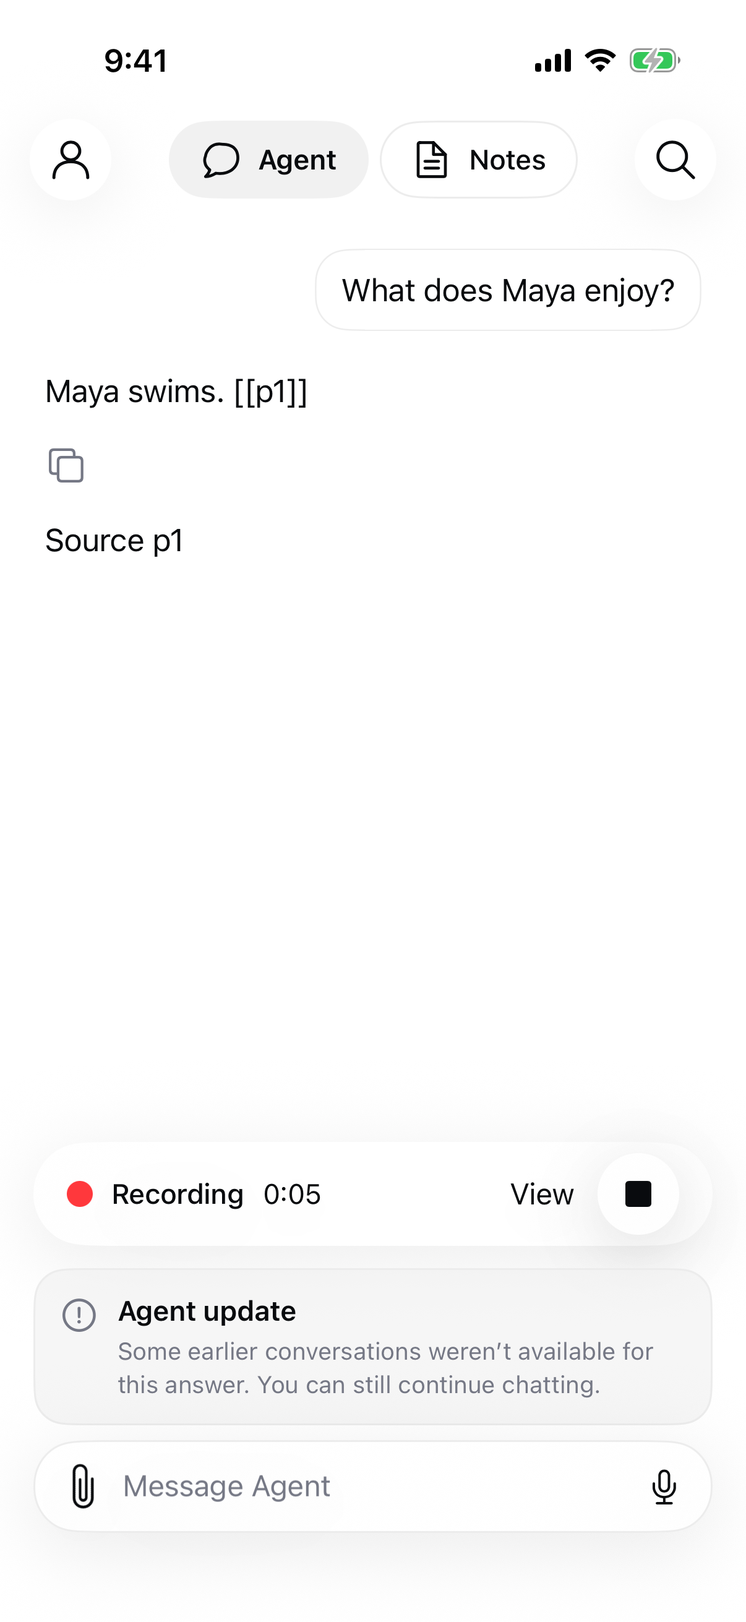
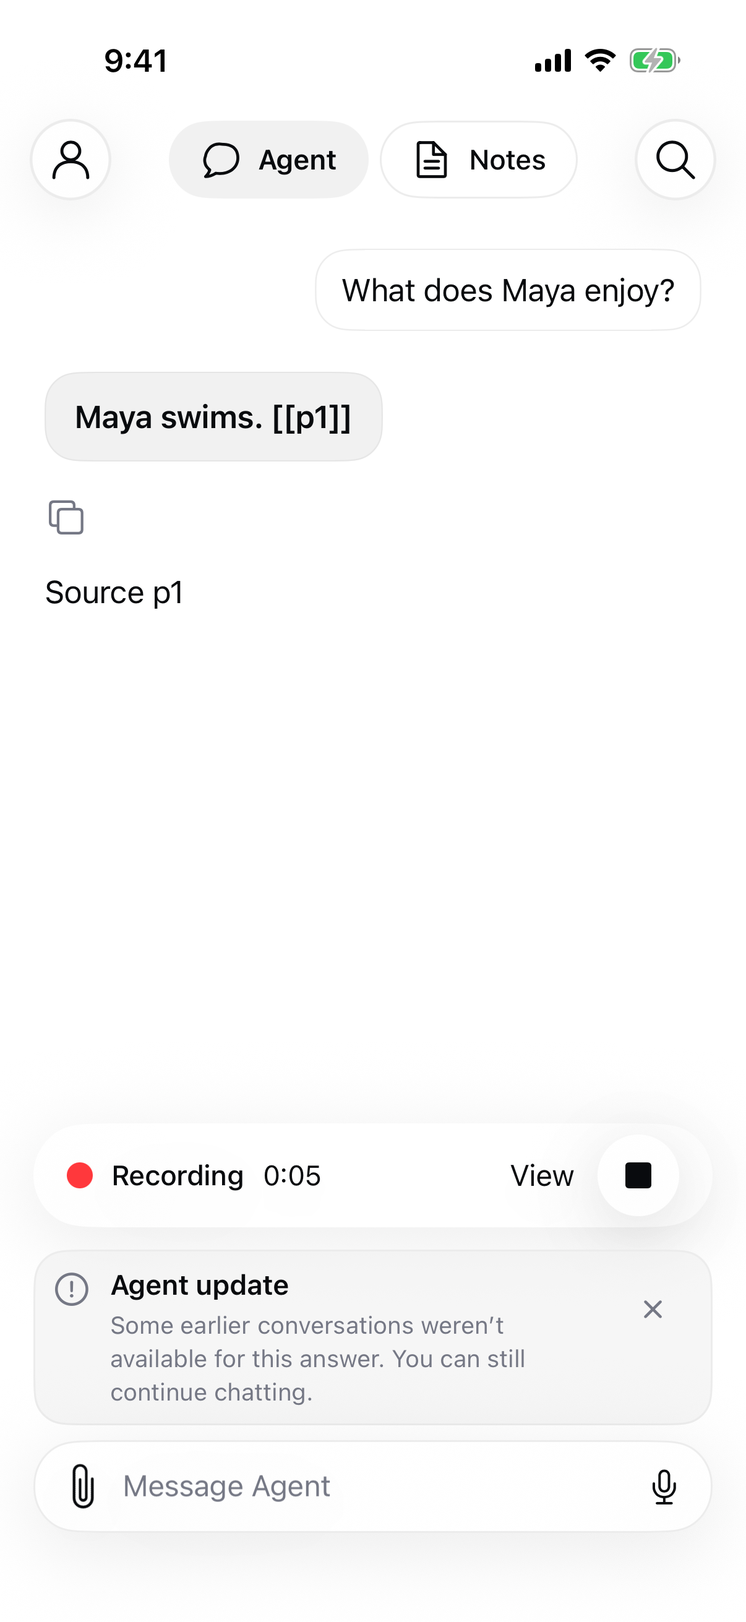
Refine attachment menu refresh feedback and Agent bubbles

diff --git a/App/CompanionRootView.swift b/App/CompanionRootView.swift
@@ -205,7 +205,7 @@ struct CompanionRootView: View {
                             VStack(alignment: .leading, spacing: 8) {
                                 Text(turn.question).padding(.horizontal, 14).padding(.vertical, 12).experienceCard(radius: 18).frame(maxWidth: .infinity, alignment: .trailing)
                                 if let answer = turn.answer {
-                                    Text(CompanionMessageText.presented(answer)).padding(.top, 14).font(.body).lineSpacing(3).textSelection(.enabled).accessibilityIdentifier("companionAnswer")
+                                    Text(CompanionMessageText.presented(answer)).modifier(ExperienceAgentBubble()).padding(.top, 14).textSelection(.enabled).accessibilityIdentifier("companionAnswer")
                                     Button { ExperienceClipboard.copy(CompanionMessageText.presented(answer)) } label: { Image(systemName: "square.on.square").font(.system(size: 18)).foregroundStyle(ExperienceStyle.secondary).frame(width: 44, height: 44, alignment: .leading) }.accessibilityLabel("Copy answer")
                                 }
                                 if turn.state != .complete { ExperienceNotice(title: "About this answer", message: turnLabel(turn.state)) }
@@ -223,7 +223,7 @@ struct CompanionRootView: View {
                         }
                         if let response = chat.response {
                             Text(response.request.question).padding(.horizontal, 14).padding(.vertical, 12).experienceCard(radius: 18).frame(maxWidth: .infinity, alignment: .trailing)
-                            Text(CompanionMessageText.presented(response.text, streaming: response.state == .streaming)).font(.body).lineSpacing(3).textSelection(.enabled).accessibilityIdentifier("companionPartial")
+                            Text(CompanionMessageText.presented(response.text, streaming: response.state == .streaming)).modifier(ExperienceAgentBubble()).textSelection(.enabled).accessibilityIdentifier("companionPartial")
                             if response.state == .streaming { ExperienceThinkingStatus(label: "Answering…", active: surface == "Companion" && selectedID == nil) }
                             else if response.state != .saved { ExperienceNotice(title: "Answer interrupted", message: "We couldn’t confirm this answer was saved. Recover the question below to check or continue it.") }
 
@@ -243,10 +243,17 @@ struct CompanionRootView: View {
         if let chat {
             @Bindable var chat = chat
             VStack(alignment: .leading, spacing: 8) {
+                if let status = chat.refreshStatus {
+                    HStack(spacing: 8) {
+                        if chat.isRefreshing { ProgressView().controlSize(.small) }
+                        else { Image(systemName: "checkmark.circle") }
+                        Text(status).font(.caption)
+                    }.foregroundStyle(ExperienceStyle.secondary).accessibilityIdentifier("conversationRefreshStatus")
+                }
                 if let notice = chat.notice ?? sourceNotice { ExperienceNotice(title: "Agent update", message: notice).accessibilityIdentifier("companionNotice") }
                 if let attachment = chat.attachment {
                     HStack(spacing: 12) {
-                        Label("Attached recording", systemImage: "doc.text").font(.caption).accessibilityIdentifier("chatAttachment")
+                        Label("Attached note", systemImage: "doc.text").font(.caption).accessibilityIdentifier("chatAttachment")
                         Button("Open") { selectedID = UUID(uuidString: attachment.session_id); citedSource = nil }
                         Spacer()
                         Button("Remove") { chat.attachment = nil }.accessibilityIdentifier("removeAttachment")
@@ -281,16 +288,11 @@ struct CompanionRootView: View {
                                 .accessibilityIdentifier("sendDictation")
                         } else {
                         Menu {
-                            Button("Attach a recording", systemImage: "doc.text") { composing = false; showingAttachments = true }
+                            Button("Attach note", systemImage: "doc.text") { composing = false; showingAttachments = true }
                                 .accessibilityIdentifier("chooseRecordingAttachment")
-                            Button("Dictate message", systemImage: "mic") { startDictation(chat) }
-                                .disabled(chat.isBusy || recording.pendingMemoryDeletion)
-                                .accessibilityIdentifier("dictateIntoDraft")
                             Divider()
                             Toggle("Use past memory", isOn: $chat.useMemory)
-                            Button("Clear draft", role: .destructive) { dictation.discard(); chat.draft = "" }
-                                .disabled(!dictation.isActive && chat.draft.isEmpty).accessibilityIdentifier("clearCompanionDraft")
-                            Button("Refresh conversation") { chat.refresh() }.disabled(chat.isBusy || recording.pendingMemoryDeletion)
+                            Button("Refresh chat", systemImage: "arrow.clockwise") { composing = false; chat.refresh(userInitiated: true) }.accessibilityLabel("Refresh conversation").disabled(chat.isBusy || recording.pendingMemoryDeletion)
                         } label: { Image(systemName: "paperclip").font(.system(size: 20, weight: .regular)).rotationEffect(.degrees(-45)).frame(width: 44, height: 44).contentShape(Rectangle()) }
                             .accessibilityLabel("Attachments and message options")
                         TextField("Message Agent", text: Binding(
@@ -301,7 +303,7 @@ struct CompanionRootView: View {
                         ZStack {
                             Group {
                                 if chat.isBusy {
-                                    ExperienceIconButton("Cancel answer", icon: "stop.fill") { chat.cancel() }
+                                    ExperienceIconButton(chat.isRefreshing ? "Cancel refresh" : "Cancel answer", icon: "stop.fill") { chat.cancel() }
                                 } else if !chat.draft.trimmingCharacters(in: .whitespacesAndNewlines).isEmpty {
                                     ExperienceIconButton("Send", icon: "arrow.up", filled: true) { sendDraft(chat) }
                                         .disabled(recording.pendingMemoryDeletion)
@@ -452,7 +454,7 @@ struct CompanionRootView: View {
             navigationPill("Agent", icon: "bubble.left", value: "Companion", identifier: "agentNavigation")
                 .contextMenu {
                     if let answer = chat?.turns.last?.answer { ShareLink(item: CompanionMessageText.presented(answer)) }
-                    Button("Refresh conversation") { chat?.refresh() }.disabled(chat?.isBusy ?? true)
+                    Button("Refresh chat") { chat?.refresh(userInitiated: true) }.accessibilityLabel("Refresh conversation").disabled(chat?.isBusy ?? true)
                 }
             navigationPill("Notes", icon: "doc.text", value: "Recordings", identifier: "notesNavigation")
             Spacer(minLength: 8)
@@ -481,7 +483,11 @@ struct CompanionRootView: View {
         NavigationStack {
             ScrollView {
                 LazyVStack(alignment: .leading, spacing: 0) {
-                    if library.isEmpty { ContentUnavailableView("No recordings yet", systemImage: "doc.text", description: Text("Capture a conversation first, then attach it to your message.")) }
+                    if library.isEmpty { ContentUnavailableView("No notes yet", systemImage: "doc.text", description: Text("Capture a conversation to create your first note.")) }
+                    if !library.isEmpty {
+                        Text("Choose a note to give Agent context for your message.")
+                            .font(.subheadline).foregroundStyle(ExperienceStyle.secondary).padding(.bottom, 12)
+                    }
                     ForEach(library) { session in
                         let attachment = recording.companionAttachment(for: session)
                         Button {
@@ -494,12 +500,14 @@ struct CompanionRootView: View {
                                     Text(attachment == nil ? "Available after synchronization" : session.createdAt.formatted()).font(.caption).foregroundStyle(ExperienceStyle.secondary)
                                 }
                                 Spacer()
+                                Image(systemName: chat?.attachment?.session_id == session.id.uuidString ? "checkmark.circle.fill" : "plus.circle")
+                                    .foregroundStyle(ExperienceStyle.secondary)
                             }.padding(.vertical, 18).contentShape(Rectangle())
                         }.disabled(attachment == nil).accessibilityIdentifier("attachRecordingRow")
                         Divider()
                     }
                 }.padding(20)
-            }.experienceNavigationTitle("Attach a recording")
+            }.experienceNavigationTitle("Attach note")
                 .toolbar { ToolbarItem(placement: .confirmationAction) { Button("Done") { showingAttachments = false } } }
                 .background(ExperienceStyle.canvas)
         }.tint(ExperienceStyle.ink).presentationDetents([.medium, .large])

diff --git a/docs/qa/native-experience/index.html b/docs/qa/native-experience/index.html
@@ -1,1 +1,1 @@
-<!doctype html><html lang="en"><meta charset="utf-8"><meta name="viewport" content="width=device-width,initial-scale=1"><title>Native UI screenshot gallery</title><style>body{margin:0;padding:32px;background:#f1f1f3;color:#111;font:16px system-ui}h1{font-size:28px}p{max-width:850px;line-height:1.6;color:#656570}main{display:grid;grid-template-columns:repeat(auto-fit,minmax(260px,1fr));gap:28px}figure{margin:0}figcaption{font-weight:600;margin:16px 0}img{display:block;width:100%;height:auto;border-radius:20px;box-shadow:0 8px 32px #00000012}a{color:inherit}</style><h1>Native UI · interaction polish</h1><p>Actual iPhone 17 Pro simulator screenshots, September 28, 2026. Click any screen for its full-resolution image. Sign-up and billing are unconnected previews. Capture screens include synthetic QA content and source-debug output. Physical-device acceptance remains pending.</p><main><figure><figcaption>Notes</figcaption><a href="home.png"><img src="home.png" alt="Notes" loading="lazy"></a></figure><figure><figcaption>Agent · empty</figcaption><a href="agent.png"><img src="agent.png" alt="Agent · empty" loading="lazy"></a></figure><figure><figcaption>Agent · capture QA</figcaption><a href="agent-capture.png"><img src="agent-capture.png" alt="Agent · capture QA" loading="lazy"></a></figure><figure><figcaption>Notes</figcaption><a href="notes.png"><img src="notes.png" alt="Notes" loading="lazy"></a></figure><figure><figcaption>Live transcript · QA fixture</figcaption><a href="live-transcript.png"><img src="live-transcript.png" alt="Live transcript · QA fixture" loading="lazy"></a></figure><figure><figcaption>Search</figcaption><a href="search.png"><img src="search.png" alt="Search" loading="lazy"></a></figure><figure><figcaption>Account</figcaption><a href="account.png"><img src="account.png" alt="Account" loading="lazy"></a></figure><figure><figcaption>Sign-up · preview</figcaption><a href="signup.png"><img src="signup.png" alt="Sign-up · preview" loading="lazy"></a></figure><figure><figcaption>Pricing · preview</figcaption><a href="pricing.png"><img src="pricing.png" alt="Pricing · preview" loading="lazy"></a></figure><figure><figcaption>Composer · typing</figcaption><a href="composer-send.png"><img src="composer-send.png" alt="Composer · typing" loading="lazy"></a></figure><figure><figcaption>Attachments</figcaption><a href="attachments.png"><img src="attachments.png" alt="Attachments" loading="lazy"></a></figure><figure><figcaption>Composer · multiline</figcaption><a href="composer-multiline.png"><img src="composer-multiline.png" alt="Multiline composer" loading="lazy"></a></figure><figure><figcaption>Dictation · synthetic audio level</figcaption><a href="dictation.png"><img src="dictation.png" alt="Dictation with trash, timer, waveform and Send" loading="lazy"></a></figure></main></html>
+<!doctype html><html lang="en"><meta charset="utf-8"><meta name="viewport" content="width=device-width,initial-scale=1"><title>Native UI screenshot gallery</title><style>body{margin:0;padding:32px;background:#f1f1f3;color:#111;font:16px system-ui}h1{font-size:28px}p{max-width:850px;line-height:1.6;color:#656570}main{display:grid;grid-template-columns:repeat(auto-fit,minmax(260px,1fr));gap:28px}figure{margin:0}figcaption{font-weight:600;margin:16px 0}img{display:block;width:100%;height:auto;border-radius:20px;box-shadow:0 8px 32px #00000012}a{color:inherit}</style><h1>Native UI · interaction polish</h1><p>Actual iPhone 17 Pro simulator screenshots, September 28, 2026. Click any screen for its full-resolution image. Sign-up and billing are unconnected previews. Capture screens include synthetic QA content and source-debug output. Physical-device acceptance remains pending.</p><main><figure><figcaption>Notes</figcaption><a href="home.png"><img src="home.png" alt="Notes" loading="lazy"></a></figure><figure><figcaption>Agent · empty</figcaption><a href="agent.png"><img src="agent.png" alt="Agent · empty" loading="lazy"></a></figure><figure><figcaption>Agent · capture QA</figcaption><a href="agent-capture.png"><img src="agent-capture.png" alt="Agent · capture QA" loading="lazy"></a></figure><figure><figcaption>Notes</figcaption><a href="notes.png"><img src="notes.png" alt="Notes" loading="lazy"></a></figure><figure><figcaption>Live transcript · QA fixture</figcaption><a href="live-transcript.png"><img src="live-transcript.png" alt="Live transcript · QA fixture" loading="lazy"></a></figure><figure><figcaption>Search</figcaption><a href="search.png"><img src="search.png" alt="Search" loading="lazy"></a></figure><figure><figcaption>Account</figcaption><a href="account.png"><img src="account.png" alt="Account" loading="lazy"></a></figure><figure><figcaption>Sign-up · preview</figcaption><a href="signup.png"><img src="signup.png" alt="Sign-up · preview" loading="lazy"></a></figure><figure><figcaption>Pricing · preview</figcaption><a href="pricing.png"><img src="pricing.png" alt="Pricing · preview" loading="lazy"></a></figure><figure><figcaption>Composer · typing</figcaption><a href="composer-send.png"><img src="composer-send.png" alt="Composer · typing" loading="lazy"></a></figure><figure><figcaption>Attachments</figcaption><a href="attachments.png"><img src="attachments.png" alt="Attachments" loading="lazy"></a></figure><figure><figcaption>Composer · multiline</figcaption><a href="composer-multiline.png"><img src="composer-multiline.png" alt="Multiline composer" loading="lazy"></a></figure><figure><figcaption>Dictation · synthetic audio level</figcaption><a href="dictation.png"><img src="dictation.png" alt="Dictation with trash, timer, waveform and Send" loading="lazy"></a></figure><figure><figcaption>Attachment menu</figcaption><a href="attachment-menu.png"><img src="attachment-menu.png" alt="Simplified attachment menu" loading="lazy"></a></figure></main></html>

diff --git a/UITests/CompanionPhoneUITests.swift b/UITests/CompanionPhoneUITests.swift
@@ -85,8 +85,8 @@ final class CompanionPhoneUITests: XCTestCase {
         draft.typeText(" and help me remember the people involved, the decisions we made, and what I should follow up on tomorrow.")
         XCTAssertGreaterThan(draft.frame.height, singleLineHeight + 15)
         snapshot(app, "Composer wrapping naturally")
-        app.buttons["Attachments and message options"].tap()
-        app.buttons["clearCompanionDraft"].tap()
+        draft.coordinate(withNormalizedOffset: CGVector(dx: 0.98, dy: 0.9)).tap()
+        draft.typeText(String(repeating: XCUIKeyboardKey.delete.rawValue, count: (draft.value as? String ?? "").count))
         XCTAssertTrue(app.buttons["startDictation"].exists)
         draft.tap(); draft.typeText("Keep this thought")
 
@@ -118,24 +118,29 @@ final class CompanionPhoneUITests: XCTestCase {
         XCTAssertTrue(app.buttons["savedSession"].firstMatch.exists)
         app.buttons["agentNavigation"].tap()
         XCTAssertEqual(draft.value as? String, "Keep this thought")
-        app.buttons["Attachments and message options"].tap()
-        app.buttons["clearCompanionDraft"].tap()
+        draft.coordinate(withNormalizedOffset: CGVector(dx: 0.98, dy: 0.9)).tap()
+        draft.typeText(String(repeating: XCUIKeyboardKey.delete.rawValue, count: (draft.value as? String ?? "").count))
         XCTAssertTrue(app.buttons["startDictation"].exists)
         XCTAssertFalse(app.buttons["sendCompanion"].exists)
-        draft.tap(); draft.typeText("Keep this thought")
-        app.buttons["Attachments and message options"].tap()
-        app.buttons["dictateIntoDraft"].tap()
+        app.buttons["startDictation"].tap()
         XCTAssertTrue(app.buttons["discardDictation"].waitForExistence(timeout: 3))
-        XCTAssertTrue(app.buttons["sendDictation"].exists)
         snapshot(app, "Live dictation waveform")
         app.buttons["discardDictation"].tap()
-        XCTAssertEqual(draft.value as? String, "Keep this thought")
-        app.buttons["Attachments and message options"].tap()
-        app.buttons["dictateIntoDraft"].tap()
+        XCTAssertTrue(app.buttons["startDictation"].exists)
+        app.buttons["startDictation"].tap()
         XCTAssertTrue(app.buttons["sendDictation"].waitForExistence(timeout: 3))
         app.buttons["sendDictation"].tap()
-        XCTAssertTrue(app.staticTexts["Keep this thought What does Maya enjoy?"].firstMatch.waitForExistence(timeout: 8))
-        XCTAssertFalse(app.buttons["discardDictation"].exists)
+        XCTAssertTrue(app.staticTexts["What does Maya enjoy?"].firstMatch.waitForExistence(timeout: 8))
+        XCTAssertTrue(app.buttons["startDictation"].waitForExistence(timeout: 8))
+        draft.tap(); draft.typeText("Keep this draft")
+        app.buttons["Attachments and message options"].tap()
+        XCTAssertFalse(app.buttons["clearCompanionDraft"].exists)
+        XCTAssertFalse(app.buttons["dictateIntoDraft"].exists)
+        XCTAssertTrue(app.buttons["Attach note"].exists)
+        snapshot(app, "Simplified attachment menu")
+        app.buttons["Refresh conversation"].tap()
+        XCTAssertTrue(app.staticTexts["Conversation is up to date."].waitForExistence(timeout: 8))
+        XCTAssertEqual(draft.value as? String, "Keep this draft")
 
     }
 

diff --git a/UnitTests/CompanionRefreshTests.swift b/UnitTests/CompanionRefreshTests.swift
@@ -1,0 +1,41 @@
+import XCTest
+
+@MainActor
+private final class HistoryStub: CompanionConnection {
+    let events = AsyncThrowingStream<CompanionEvent, Error>.makeStream()
+    func run(_ command: CompanionCommand, onEvent: (CompanionEvent) throws -> Void) async throws {
+        for try await event in events.stream { try onEvent(event) }
+    }
+    func cancel() { events.continuation.finish(throwing: CancellationError()) }
+}
+
+@MainActor
+final class CompanionRefreshTests: XCTestCase {
+    private func settle() async { for _ in 0..<30 { await Task.yield() } }
+    func testRefreshKeepsVisibleHistoryAndDraftUntilReplacementThenReportsSuccess() async throws {
+        let first = HistoryStub(); let second = HistoryStub(); var calls = 0
+        let chat = CompanionController(owner: "test") { calls += 1; return calls == 1 ? first : second }
+        let event = try JSONDecoder().decode(CompanionEvent.self, from: Data(#"{"type":"history","conversation_id":"main","turns":[{"id":"one","sequence":1,"question":"Hello","state":"complete","answer":"Hi","created_at":0,"citations":[]}]}"#.utf8))
+        chat.refresh(); first.events.continuation.yield(event); first.events.continuation.finish(); await settle()
+        XCTAssertEqual(chat.turns.count, 1)
+        chat.draft = "Keep this"
+        chat.refresh(userInitiated: true); await settle()
+        XCTAssertEqual(chat.turns.count, 1); XCTAssertTrue(chat.isRefreshing)
+        XCTAssertEqual(chat.refreshStatus, "Refreshing conversation…")
+        second.events.continuation.yield(event); second.events.continuation.finish(); await settle()
+        XCTAssertFalse(chat.isRefreshing); XCTAssertEqual(chat.draft, "Keep this")
+        XCTAssertEqual(chat.refreshStatus, "Conversation is up to date.")
+    }
+    func testFailedRefreshClearsUnvalidatedHistoryButKeepsDraftAndShowsError() async throws {
+        let first = HistoryStub(); let socket = HistoryStub(); var calls = 0
+        let chat = CompanionController(owner: "test") { calls += 1; return calls == 1 ? first : socket }
+        let event = try JSONDecoder().decode(CompanionEvent.self, from: Data(#"{"type":"history","conversation_id":"main","turns":[{"id":"one","sequence":1,"question":"Hello","state":"complete","answer":"Hi","created_at":0,"citations":[]}]}"#.utf8))
+        chat.refresh(); first.events.continuation.yield(event); first.events.continuation.finish(); await settle()
+        XCTAssertEqual(chat.turns.count, 1)
+        chat.draft = "Keep this"
+        chat.refresh(userInitiated: true); await settle()
+        socket.events.continuation.finish(throwing: CompanionFailure.unavailable); await settle()
+        XCTAssertTrue(chat.turns.isEmpty); XCTAssertFalse(chat.isRefreshing)
+        XCTAssertEqual(chat.draft, "Keep this"); XCTAssertNotNil(chat.notice); XCTAssertNil(chat.refreshStatus)
+    }
+}

diff --git a/App/Sessions/CompanionController.swift b/App/Sessions/CompanionController.swift
@@ -24,6 +24,8 @@ final class CompanionController {
     private(set) var nextBefore: Int?
     private(set) var isBusy = false
     private(set) var notice: String?
+    private(set) var isRefreshing = false
+    private(set) var refreshStatus: String?
     private let makeConnection: () -> any CompanionConnection
     private var connection: (any CompanionConnection)?
     private var task: Task<Void, Never>?
@@ -62,6 +64,7 @@ final class CompanionController {
     }
 
     private func begin(_ question: CompanionQuestion) {
+        refreshStatus = nil
         notice = nil
         response = Response(request: question)
         isBusy = true
@@ -114,21 +117,30 @@ final class CompanionController {
         }
     }
 
-    func refresh() { load(before: nil) }
+    func refresh(userInitiated: Bool = false) { load(before: nil, userInitiated: userInitiated) }
     func loadEarlier() {
         guard let nextBefore else { return }
         load(before: nextBefore)
     }
-    private func load(before: Int?) {
+    private func load(before: Int?, userInitiated: Bool = false) {
         guard !isBusy else { return }
         isBusy = true
         notice = nil
-        // Don't leave old answers presented as current if server revalidation fails.
-        if before == nil { turns = []; nextBefore = nil }
+        isRefreshing = true
+        refreshStatus = userInitiated ? "Refreshing conversation…" : nil
+        // Keep the visible conversation stable until revalidation completes.
         task = Task {
-            defer { connection = nil; isBusy = false; task = nil }
-            do { try await readHistory(before: before) }
-            catch { notice = error is CancellationError ? "Chat refresh interrupted." : error.localizedDescription }
+            defer { connection = nil; isBusy = false; isRefreshing = false; task = nil }
+            do {
+                try await readHistory(before: before)
+                try Task.checkCancellation()
+                refreshStatus = userInitiated ? "Conversation is up to date." : nil
+            } catch {
+                // Failed revalidation must not leave stale evidence presented as current.
+                if before == nil { turns = []; nextBefore = nil }
+                refreshStatus = nil
+                notice = error is CancellationError ? "Refresh stopped. Tap Refresh conversation to try again." : error.localizedDescription
+            }
         }
     }
     private func readHistory(before: Int?) async throws {

diff --git a/App/ExperienceStyle.swift b/App/ExperienceStyle.swift
@@ -216,6 +216,7 @@ struct ExperienceNotice: View {
     let title: String
     let message: String
     @State private var dismissed = false
+    @Environment(\.accessibilityReduceMotion) private var reduceMotion
     var body: some View {
         Group {
         if !dismissed {
@@ -225,13 +226,16 @@ struct ExperienceNotice: View {
                 Text(title).font(.subheadline.weight(.semibold))
                 Text(message).font(.footnote).foregroundStyle(ExperienceStyle.secondary).fixedSize(horizontal: false, vertical: true)
             }.frame(maxWidth: .infinity, alignment: .leading)
-            Button { dismissed = true } label: {
+            Button {
+                withAnimation(reduceMotion ? nil : .easeInOut(duration: 0.2)) { dismissed = true }
+            } label: {
                 Image(systemName: "xmark").font(.system(size: 12, weight: .semibold))
                     .foregroundStyle(ExperienceStyle.secondary).frame(width: 44, height: 44)
             }.buttonStyle(ExperiencePressStyle()).accessibilityLabel("Dismiss \(title)")
         }.padding(10).background(ExperienceStyle.surface.opacity(0.65), in: RoundedRectangle(cornerRadius: 18))
             .overlay(RoundedRectangle(cornerRadius: 18).strokeBorder(ExperienceStyle.line))
             .accessibilityElement(children: .contain)
+            .transition(reduceMotion ? .identity : .opacity.combined(with: .scale(scale: 0.98, anchor: .top)))
         }
         }.onChange(of: message) { _, _ in dismissed = false }
     }
@@ -249,5 +253,17 @@ enum ExperienceHaptics {
         #if os(iOS)
         UINotificationFeedbackGenerator().notificationOccurred(.success)
         #endif
+    }
+}
+
+/// The founder-provided chat reference uses quiet, content-sized incoming bubbles.
+struct ExperienceAgentBubble: ViewModifier {
+    func body(content: Content) -> some View {
+        content.font(.body.weight(.semibold)).lineSpacing(4)
+            .padding(.horizontal, 16).padding(.vertical, 14)
+            .background(Color(white: 0.945), in: RoundedRectangle(cornerRadius: 18))
+            .overlay(RoundedRectangle(cornerRadius: 18).strokeBorder(Color(white: 0.90), lineWidth: 0.7))
+            .padding(.trailing, 32)
+            .frame(maxWidth: .infinity, alignment: .leading)
     }
 }

diff --git a/docs/native-experience-ui.md b/docs/native-experience-ui.md
@@ -118,3 +118,16 @@ Verification: 15 focused ComposerDictation/SharedMicrophone unit tests passed, c
 Signed source checkpoint `0d53122` was installed in place and launched on the paired iPhone. Receipts: `/tmp/dictation-wave-device.log`, `/tmp/dictation-wave-install.json`, `/tmp/dictation-wave-launch.json`. No recording was initiated; device behavior acceptance remains pending.
 
 Dictation arrow correction: replaced the visible Send text with the exact shared filled up-arrow control used for typed messages. Finalization behavior is unchanged. The affected simulator flow passed (38.385 s), screenshot inspected/refreshed, signed build passed. Evidence: `/tmp/VoiceCompanion-ExperienceResults/20260928-004753/` and `/tmp/dictation-arrow-device.log`.
+
+
+## Paperclip menu and refresh follow-up
+
+The menu now offers Attach note, Use past memory and Refresh conversation. Dictate message and Clear draft are removed at founder request. The attachment sheet explains the context being attached, uses consistent note naming, and shows an add/selected indicator. Dictation remains on the empty composer's microphone.
+
+Refresh previously erased the visible history before waiting for the network. It now retains the page while loading, preserves the draft, and reports Refreshing conversation / Conversation is up to date. A failed revalidation still clears unvalidated history and presents the existing error card. The busy control correctly identifies Cancel refresh. Dismissed notice cards use a short fade/scale transition and animated layout collapse; Reduce Motion removes the transition.
+
+Focused refresh-controller tests cover visible-history preservation, replacement/success feedback, and failure clearing while retaining the draft. Simulator QA initially exposed test assumptions tied to the removed Clear draft action and debug-only source controls; those test steps were corrected to use actual composer editing and completion state. These failures were not application refresh failures.
+
+Final verification: two controller regressions passed; menu/refresh and gallery/attachment flows passed at `/tmp/VoiceCompanion-ExperienceResults/20260928-005534/`. The shorter Refresh chat label and dismissal update passed at `20260928-005732`; the subsequent incoming-bubble revision passed capture/chat/source/reopen plus dismissal at `20260928-005903`. Actual menu, attachment sheet and Agent bubble screenshots inspected. Final signed iPhone and Mac builds passed. No paid calls or physical behavioral acceptance.
+
+Agent saved and streaming replies now use the latest supplied reference: content-sized left-aligned light-gray rounded bubbles, subtle border, 16-point horizontal padding and semibold body type. This supersedes the earlier unboxed replies. The Agent capture screenshot contains debug-only source markers from the synthetic fixture.

diff --git a/docs/current-state.md b/docs/current-state.md
@@ -121,3 +121,5 @@ Deferred: TTS, proactive participation, silently always-on capture, Mac system a
 Founder-approved behavior: pause meeting audio while dictation captures the companion message, visibly indicate it, then resume automatically. The question is excluded from meeting transcripts/notes; other simultaneous speech is also omitted. Candidate routing uses same-length silence for the meeting stream and original audio for on-device dictation, preserving session timestamps. Prior physical omission was not deliberate routing and does not verify this change. See [dictation evidence](companion-feel-and-dictation.md). The bounded physical pause/exclusion/resume check now passes: the founder saw the paused indicator; direct iPhone Mirroring inspection confirmed both meeting statements in the transcript and generated notes, and the private arithmetic question/answer only in chat. Stop/edit/Clear also have prior founder-confirmed physical evidence. The physical background-interruption check also passes by explicit founder confirmation: editable dictated text remains, the stopped notice appears, and nothing sends. Permission-denied UX subsequently passed with an empty composer and no crash; access was restored. Final PR review and focused tests passed. The founder approved an additional $0.05 for this one run; PR 101 deployed explicit budget compatibility, raising the runtime ceiling to $5.05 and combined approved envelopes to $5.88. This supersedes the earlier budget totals above; allowances are not invoices or authorization for repeat runs.
 
 Native UI follow-up (September 28): active composer dictation now offers trash, timer, PCM waveform and Send; existing typed text is preserved and appended before a successful send. Notices are dismissible, and profile/search outlines are stronger. Focused native tests and simulator behaviors pass; physical dictation/visual acceptance remains distinct. See [UI evidence](native-experience-ui.md#dictation-composer-and-dismissible-notices--september-28).
+
+Latest UI refinement: paperclip menu contains Attach note, Use past memory and Refresh chat; Dictate message and Clear draft are removed. Refresh retains the visible conversation while loading and shows explicit completion feedback. Notice dismissal fades/collapses with Reduce Motion support. Agent replies use the founder's light-gray rounded bubble reference. See [UI follow-up evidence](native-experience-ui.md#paperclip-menu-and-refresh-follow-up).

diff --git a/docs/engineering-principles.md b/docs/engineering-principles.md
@@ -257,3 +257,9 @@ Founder navigation clarification, September 28: Agent remains the primary page w
 Founder dictation revision, September 28: while dictating, replace the inline composer with trash, elapsed time, a real microphone-level waveform and Send (no Pause). Send finalizes recognition, appends to the existing draft and sends the combined message only after successful final recognition. Trash discards only the active dictated segment. Preserve interruption/failure recovery without automatic sending. User notices have a top-right dismiss X; profile/search circles use visible pale-gray borders matching the tabs.
 
 Founder dictation-control correction: use the same circular up-arrow send control as typed messages, not a visible Send text label. Preserve its accessible Send label and finalization behavior.
+
+Founder paperclip-menu revision: call the attachment action “Attach note,” remove Dictate message and Clear draft, and improve Refresh conversation feedback. Preserve drafts during refresh; keep existing history visible while revalidating and do not leave unvalidated source evidence presented as current after a failed refresh. Dictation remains available through the empty composer's microphone.
+
+Founder notice-dismissal refinement: dismissed error cards should fade and gently collapse with surrounding layout movement, respecting Reduce Motion.
+
+Founder incoming-message revision: Agent replies use the supplied Manus-style light-gray, subtly bordered, rounded content-sized bubbles with slightly heavier text, aligned left. Apply to streaming and saved replies; retain the no-repeated-author-label decision.
